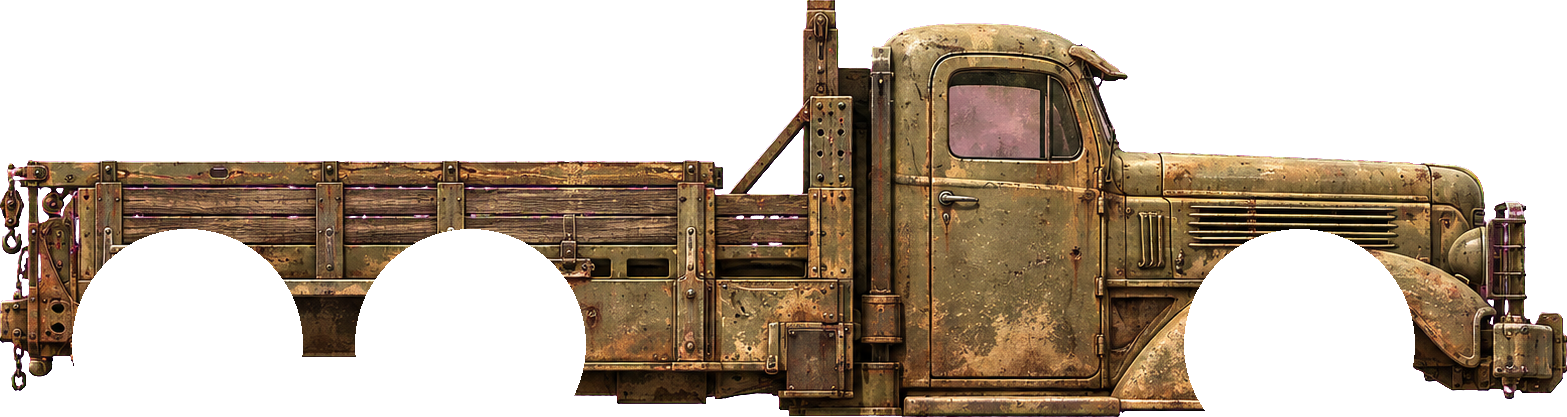
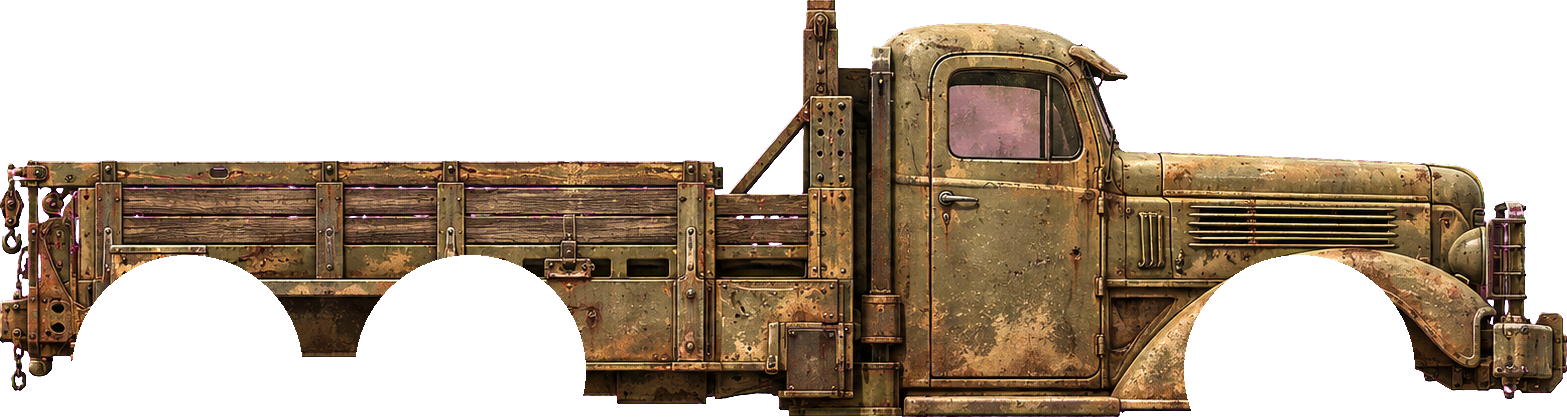
Art : garde au sol relevée, plateau du T23 posé sur le châssis
Claude-Session: https://claude.ai/code/session_01FR7p1SMounZ9dfyGLEvtwk

diff --git a/tools/specs_vehicules.py b/tools/specs_vehicules.py
@@ -30,7 +30,7 @@ SPECS = {
         [("chassis", 0, 1), ("transmission", 0, 2), ("moteur", 0, 3), ("caisse", 0, 4), ("roue", 0, 4.2), ("roue", 3.07, 4.2)]),
     "citroen_t23": ("Citroën T23", 5.6, 2.4, {
         "chassis": (0.45, 0.36, 5.14), "transmission": (2.20, 0.45, 2.30), "moteur": (4.30, 0.80, 0.90),
-        "roue": (0.775, 0.0, 0.95), "plateau": (0.0, 1.00, 3.30), "cabine": (3.26, 0.53, 2.30)},
+        "roue": (0.775, 0.0, 0.95), "plateau": (0.0, 0.87, 3.30), "cabine": (3.26, 0.53, 2.30)},
         [("chassis", 0, 1), ("transmission", 0, 2), ("moteur", 0, 3), ("roue", 0, 4), ("plateau", 0, 5), ("cabine", 0, 6),
          ("roue", 3.60, 6.2)]),
     "diamond_t": ("Diamond T 969 dépanneuse", 7.42, 3.0, {
@@ -58,12 +58,17 @@ PASSAGES = {"bmw_r75": "caisse", "citroen_traction": "caisse", "citroen_t23": "c
             "diamond_t": "caisse", "m3_half_track": "caisse"}
 RAYON = 0.96
 
+# Garde au sol ajoutée : tout le véhicule monte, sauf roues, chenille et galets (débattement visible).
+LEVE = {"bmw_r75": 0.04, "citroen_traction": 0.07, "citroen_t23": 0.10, "diamond_t": 0.12,
+        "dukw": 0.08, "m3_half_track": 0.05}
+
 def main():
     root = Path("docs/art/vehicules")
     for vid, (name, L, H, pieces, inst) in SPECS.items():
         images = []
         for pid, (x, y, w) in pieces.items():
             pw, ph = Image.open(root / vid / "art" / f"{pid}.png").size
+            if SLOTS[pid] != "roulement": y += LEVE.get(vid, 0)
             bx, by, bw, bh = x / CELL, y / CELL, w / CELL, w * ph / pw / CELL
             rect = [[bx, by], [bx + bw, by], [bx + bw, by + bh], [bx, by + bh]]
             images.append({"id": pid, "slot": SLOTS[pid], "box": [bx, by, bw, bh], "shapes": [{"poly": rect}]})

diff --git a/docs/art/PRODUCTION.md b/docs/art/PRODUCTION.md
@@ -185,6 +185,7 @@ complet sert d'épave de décor (`decor/epave_*.png`), les petites pièces de bu
   Passages de roue : ordre d'affichage caisse → roues → `caisse_avant` (caisse percée d'un
   disque à 96 % du rayon de roue). Les roues passent devant le fond du passage de roue,
   le bord de l'aile recouvre le pneu. Même ordre dans Godot (3 sprites).
+  Garde au sol relevée (4 à 12 cm selon le véhicule, table LEVE) ; plateau du T23 posé sur le châssis.
   Half-Track : `suspension.png` provisoire (bogies, ressorts), à faire dessiner.
   Le panier du BMW est presque caché par la moto en vue de profil (normal).
 - Reste à faire par Claude (chars seulement) : `gabarit.json` et `assemblage.png` de chaque véhicule.
